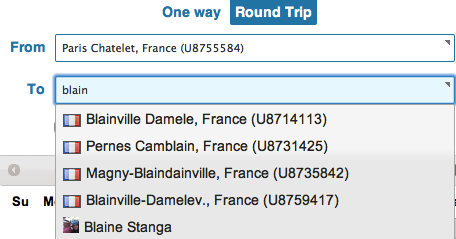
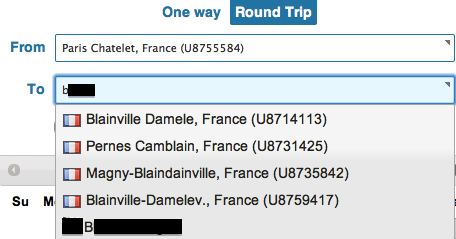
updates based on ted and other feedback

Changed region(s): [[0.1228, 0.9079, 0.3991, 0.9958], [0.1228, 0.3515, 0.2149, 0.41]]

diff --git a/lesson_2-4.md b/lesson_2-4.md
@@ -40,7 +40,11 @@ You probably should have done so already, but you'll need to go through the proc
 
 Once you have the client code from `Hotel.wsdl` (in the directory `wsdl/hotel_v17_0` in the provided code), you may want to examine the `HotelAvailabiltySearchReq` and `HotelAvailabilitySearchRsp` as these are the request/response pair of primary importance to the task ahead.
 
-When we work with the hotel availability search request, as with any request, there is the requirement for the `BillingPointOfSaleInfo` to be set to inform the uAPI what application is using the api; we have provided the method `Helper.tutorialBPOSInfo()` to create this object for you.   Similarly, one must always set the target branch and we do so based on the system property `travelport.targetBranch` (or the environment variable `TPTARGETBRANCH`).  In terms of the actual search parameters, the primary ones are
+When we work with the hotel availability search request, as with any request, there is the requirement for the `BillingPointOfSaleInfo` to be set to inform the uAPI what application is using the api; we have provided the method `Helper.tutorialBPOSInfo()` to create this object for you.   Similarly, one must always set the target branch and we do so based on the system property `travelport.targetBranch` (or the environment variable `TPTARGETBRANCH`).  
+
+![Warning](images/warning.png) For any API request other than "ping", the billing point of sale and the target branch parameters are needed.  These are required so that the uAPI can do the proper accounting of what services are being accessed and by whom.
+
+In terms of the actual search parameters, the primary ones are
 
 * A `HotelStay` object representing check-in and check-out dates
 * A `HotelSearchModifiers` object which can have many parameters but the number of adults and number of room requested are of primary importance.
@@ -213,7 +217,7 @@ In the interest of simplicity, we did not discuss in the previous lesson exactly
 
 The Universal API will signal in its responses if more results are available for any kind of search.  At the Java level, you use the method `getNextResultReference` to get access to a "token" that you can use later to tell Travelport what data you have already been returned.  You can see the token in the `common_v15_0:NextResultReference` tag at the top of the XML response.
 
-Historically, the GDSes provided data on "green-screen", character-based terminals. These systems had the notion of a screenful of information--the number of lines of text that the user could see before the top lines scrolled off-screen.  Some APIs to various GDSes have also used, or perhaps "kept", the notion of a "screenful" of information to represent a partial list of results.  In homage to this tradition, we will keep the nomenclature of "a screen" to indicate one _burst_ of information returned.
+![Warning](images/warning.png)  Historically, the GDSes provided data on "green-screen", character-based terminals. These systems had the notion of a screenful of information--the number of lines of text that the user could see before the top lines scrolled off-screen.  Some APIs to various GDSes have also used, or perhaps "kept", the notion of a "screenful" of information to represent a partial list of results.  In homage to this tradition, we will keep the nomenclature of "a screen" to indicate one _burst_ of information returned.
 
 The typical construction in code for pulling multiple screens of information from a search request looks something like the following Java code.  We are using a hotel search here, but it applies to other searches.
 
@@ -315,9 +319,9 @@ Distance distance = new Distance();
 distance.setUnits("KM");
 {% endhighlight %}
 
-This a good time to talk about XML schema validation.  Although it appears that "any old string will do" for the units in the `setUnits` call above, actually only two are valid, "KM" and "MI" in uppercase letters. The XML schemas provided by TravelPort for the uAPI correctly list the valid values, but the transformation to Java code has chosen to allow you to supply this value as a string.  
+This a good time for a warning about XML schema validation.  Although it appears that "any old string will do" for the units in the `setUnits` call above, actually only two are valid, "KM" and "MI" in uppercase letters. The XML schemas provided by TravelPort for the uAPI correctly list the valid values, but the transformation to Java code has chosen to allow you to supply this value as a string.  
 
-It is good practice to turn on "full validation" when developing your application, no matter the programming language you are using.  This means that your system will not attempt to transmit XML sequences that are invalid, and thus likely to be rejected anyway by TravelPort's system when it receives them.  There are a few places where TravelPort's system is forgiving, but it is far better to correct your errors, such as using "km" as a unit instead of "KM", before-hand and not depend on anything working not provided in the WSDL and XSD files defining the API.  
+![Warning](images/warning.png)  It is good practice to turn on "full validation" when developing your application, no matter the programming language you are using.  This means that your system will not attempt to transmit XML sequences that are invalid, and thus likely to be rejected anyway by TravelPort's system when it receives them.  There are a few places where TravelPort's system is forgiving, but it is far better to correct your errors, such as using "km" as a unit instead of "KM", before-hand and not depend on anything working not provided in the WSDL and XSD files defining the API.  
 
 Our supplied helper code for creating the instances of the uAPI's ports turns on the checking for you like this in `PortWrapper.java`
 

diff --git a/lesson_3-7.md b/lesson_3-7.md
@@ -111,6 +111,8 @@ Have fun!
 
 You can, of course, delete "deleteme" now.
 
+You will not need to create an application via play--we've created one already and you can get it from our source code repository; we'll full explain this below.
+
 #### An aside about git
 
 [Git](http://en.wikipedia.org/wiki/Git_software) is a distributed version control system, originally developed by [Linus Torvalds](http://en.wikipedia.org/wiki/Linus_Torvalds) for the Linux kernel.
@@ -156,6 +158,26 @@ Uploading ssh public key /Users/you/.ssh/id_rsa.pub
 
 {% endhighlight %}
 
+#### Get the unit3 source code
+
+For the rest of the tutorial, we'll be using a single play project that we have already created for you.  To obtain this project, you'll probably want to delete (or move) your old copy of the tutorial source code for unit1 and unit2.
+
+Then, you can copy the unit3 source code to your machine from github:
+
+{% highlight console %}
+
+$ git clone git@github.com:iansmith/travelport-uapi-tutorial.git -b unit3
+
+Cloning into 'travelport-uapi-tutorial'...
+remote: Counting objects: 2209, done.
+remote: Compressing objects: 100% (667/667), done.
+remote: Total 2209 (delta 1602), reused 2067 (delta 1460)
+Receiving objects: 100% (2209/2209), 10.81 MiB | 384 KiB/s, done.
+Resolving deltas: 100% (1602/1602), done.
+{% endhighlight %}
+
+The exact values of the number of objects or their sizes may vary, but when you are done you will see that the directory `travelport-uapi-tutorial` has been created.  Inside that directory, you'll find the `unit3` directory that is a play project.  You can go into th
+
 #### Create the application "space" on Heroku
 
 A [stack](https://devcenter.heroku.com/articles/stack) in Heroku represents the machinery needed to run an application.  The current stack for running Java applications is called "Cedar".  (Cedar because C is the third letter of the alphabet: the two prior stacks were Aspen and Bamboo).
@@ -165,7 +187,7 @@ You should create this stack while inside the directory containing the code for 
 {% highlight console %}
 
 $ cd path/to/tutorial/src/com/travelport/uapi/unit3
-$ heroku apps:create --buildpack git@github.com:iansmith/heroku-buildpack-scala.git --stack cedar
+$ heroku apps:create --stack cedar
 Creating furious-ocean-1011... done, stack is cedar
 
 {% endhighlight %}
@@ -192,7 +214,7 @@ Your application has been assigned to a server and can be reached on the public 
 
 By going to the Facebook Developer Program [Apps Tab](https://developers.facebook.com/apps/) you'll be presented with a list of all your existing Facebook apps.  Whether you have done one before or not, you can use the "Create New App" in the upper right corner of the page to create a new app registration with Facebook.
 
-**Be sure to *NOT* check the box on this dialog related to Heroku!**
+![Warning](images/warning.png)  Be sure to *NOT* check the box on this dialog related to Heroku!
 
 <br/>
 <img src="images/fb-create.png">
@@ -200,7 +222,9 @@ By going to the Facebook Developer Program [Apps Tab](https://developers.faceboo
 
 As of 2012, this feature of Facebook will force you to use languages other than Java, such as Python, PHP, or Ruby. When Java becomes supported via this method, it will of course be better than setting up Heroku by hand as we have done above.
 
-Although it is not required that your application name and application namespace be constructed as we have done in this screenshot, this is how we will assume you have done this in the rest of this lesson.
+Although it is not required that your application name and application namespace be constructed as we have done in this screenshot, this is how we will assume you have done this in the rest of this lesson.  
+
+![Warning](images/warning.png)  Namespaces in Facebook's configuration panel must end with a '/' (slash) character.
 
 The following screen will now appear so you can hook your application to [Canvas Pages](http://developers.facebook.com/docs/guides/canvas/) in Facebook.  Fill in the fields as shown below:
 
@@ -273,7 +297,7 @@ $ play eclipsify
 
 After you do this, you can use the `File > Import > General > Existing Projects into Workspace`, then "Next" and then selecting Unit 3 as the root directory of this "new" project.  This makes your display a bit easier to understand with the lessons separated out at the top level of eclipse's project navigator.
 
-You can and should run `play eclipsify` any time you make significant changes to the application.  You can do `Refresh` on the project in eclipse to load the changes once you have the project established as above.
+![Warning](images/warning.png)  You can and should run `play eclipsify` any time you make significant changes to the application.  You should run this command from the root of the play project (the directory `unit3`).  You can do `Refresh` on the project in eclipse to load the changes once you have the project established as above.
 
 ### A tiny bit of git magic
 

diff --git a/lesson_2-5.md b/lesson_2-5.md
@@ -21,7 +21,7 @@ Shopping differs from [availability and pricing](lesson_1-2.html) not only becau
 
 In particular, almost all providers of search services --- from internet search engines like [Google](http://google.com) to comparison shopping tools for consumer goods like [PriceGrabber](http://www.pricegrabber.com) --- take some shortcuts in an effort to produce the lowest-priced result as quickly as possible.  Although the techniques are different by both industry and shopping provider, typically there is a need to use caching techniques so the shopping provider does not have to do live queries for all of the items that it might propose as results. 
 
-In the particular case of buying travel-related _live_ inventory, a particular result from a shopping request (`LowFareSearchReq` producing a `LowFareSearchRsp`) may be "out of date".  For this reason, you were cautioned in the previous lesson that it is good practice with the uAPI to follow up a result gained from a shopping request with an additional `AirPricingReq` to insure that the inventory is still available and that the price has not changed.
+![Warning](images/warning.png)  In the particular case of buying travel-related _live_ inventory, a particular result from a shopping request (`LowFareSearchReq` producing a `LowFareSearchRsp`) may be "out of date".  For this reason, you were cautioned in the previous lesson that it is good practice with the uAPI to follow up a result gained from a shopping request with an additional `AirPricingReq` to insure that the inventory is still available and that the price has not changed.
 
 A deeper reason than caching, for this need to "verify" that a particular price is available or has not changed, is because the uAPI is a truly real-time system with thousands of concurrent users.  It is more than likely that during the time your program spends processing results from a shopping requests, many other pieces of software are connected to Travelport and actively changing the inventory that is available.
 
@@ -164,7 +164,7 @@ A credit card number is needed to reserve a room in most cases.
 
 Generally speaking, the card simply holds the reservation, and is not charged immediately. Later on, the property might charge penalties to the card in case of late cancellations or no-show.
 
-Because the card is not being charged, many providers do not validate the address of the cardholder against the credit card account --- and the uAPI might generate error if you provide this detail.
+![Warning](images/warning.png)  Because the card is not being charged, many providers do not validate the address of the cardholder against the credit card account --- and the uAPI might generate error if you provide this detail.
 
 In `lesson4` we have a helper routine called `getFakeCreditCard()` that will return a bogus credit card object and, optionally, attach a billing address as well.
 

diff --git a/lesson_3-6.md b/lesson_3-6.md
@@ -27,7 +27,7 @@ The "From" field is populated with the location based on the value in your Faceb
 
 ### Destinations
 
-The "To" field in the screen capture above allows you to type a location in, as you would expect.  However, you'll notice that the system auto-completes both on locations _and_ on your friends names, as in "Blaine" here:
+The "To" field in the screen capture above allows you to type a location in, as you would expect.  However, you'll notice that the system auto-completes both on locations _and_ on your friends names, as in "B--" here:
 
 <br/>
 <img src="images/completion.png"/>
@@ -99,7 +99,7 @@ By using the Universal Record portion of the uAPI you can even combine these rai
 
 ### A little bit more Facebook
 
-Up to this point, this Facebook has used features of the uAPI and that are quite similar to those we have used in our previous lessons.  In addition, the E-volve application has used the UCode date to determine better search targets.   The UCode database, though, is provided by TravelPort not Facebook.  About the only part of this app, to this point, that truly is tied to Facebook is the ability to filter your origin and destination by Facebook friends and other Facebook entities, such as places.  
+Up to this point, this Facebook app has used features of the uAPI and that are quite similar to those we have used in our previous lessons.  In addition, the E-volve application has used the UCode data to determine better search targets.   The UCode database, though, is provided by TravelPort not Facebook.  About the only part of this app, to this point, that truly is tied to Facebook is the ability to filter your origin and destination by Facebook friends and other Facebook entities, such as places.  
 
 We can also post events to the Facebook timeline of the user since the application runs "inside" Facebook.  We have highlighted the "Share" button on the screen capture of the details section of the E-Volve app.  
 

diff --git a/lesson_1-3.md b/lesson_1-3.md
@@ -240,6 +240,8 @@ Total number solutions: 0 air and 0 rail
 
 This is a bit more "real" than the idealized output shown at the beginning of this lesson, that included just the itineraries.
 
+![Warning](images/warning.png)  A brief warning is needed here.  Depending on your test credentials, the rail, vehicle, and low-cost carrier providers may not be available.  If you see an error message such as 'No provider configured' or similar, that is because you are using test credentials and you need to upgrade to "real" credentials to access the provider.
+
 A couple of things that the reader be interested in:
 
 * The `RCH` provider is the rail provider and two of its suppliers (Benelux and Deutsche Bahn) have no train service in the United Kingdom, so we get the warnings from "RCH\[BN\]" and "RCH\[DB\]" when doing a Glasgow to London search.
